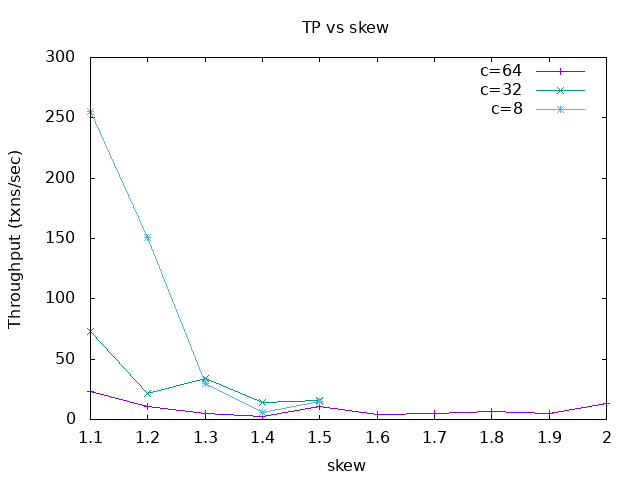
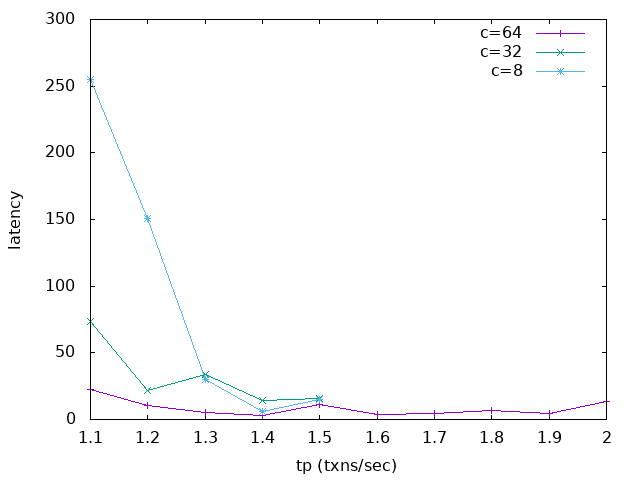
Implement latency throughput script, testing on uniform cockroach

diff --git a/experiments/exp_lib.py b/experiments/exp_lib.py
@@ -6,6 +6,21 @@ import json
 
 OVERRIDE_INI = "override.ini"
 
+def read_variation(variation_file):
+	config = configparser.ConfigParser()
+	config.read(variation_file)
+
+	exp = {
+		"variation": {
+			"concurrency": json.loads(config["variation"]["concurrency"]),
+			"step_size": int(config["variation"]["step_size"]),
+			"skew": float(config["variation"]["skew"]),
+		}
+	}
+
+	return exp
+
+
 def override_params(exp, skews, config, fpath):
 
 	override = configparser.ConfigParser()
@@ -115,3 +130,5 @@ if __name__ == "__main__":
 	exp, skews = create_experiment(os.path.dirname(os.path.realpath(__file__)), "default.ini", override=False)
 	print(exp)
 	print(skews)
+
+	print(read_variation("lt.ini"))

diff --git a/experiments/lib.py b/experiments/lib.py
@@ -353,12 +353,12 @@ def extract_data(last_eight_lines):
 	return read_data
 
 
-def write_out_data(data, out_dir):
+def write_out_data(data, out_dir, outfile_name="gnuplot.csv"):
 
 	if len(data) <= 0:
 		return ""
 
-	filename = os.path.join(out_dir, "gnuplot.csv")
+	filename = os.path.join(out_dir, outfile_name)
 	with open(filename, "w") as csvfile:
 		writer = csv.DictWriter(csvfile, delimiter='\t', fieldnames=data[0].keys())
 		writer.writeheader()

diff --git a/experiments/driver.py b/experiments/driver.py
@@ -11,7 +11,7 @@ import configparser
 FPATH = os.path.dirname(os.path.realpath(__file__))
 EXP, SKEWS = exp_lib.create_experiment(FPATH, "default.ini")
 CONFIG_LIST = [
-	"low_skew.ini"
+	"old_zipfian.ini"
 	]
 
 
